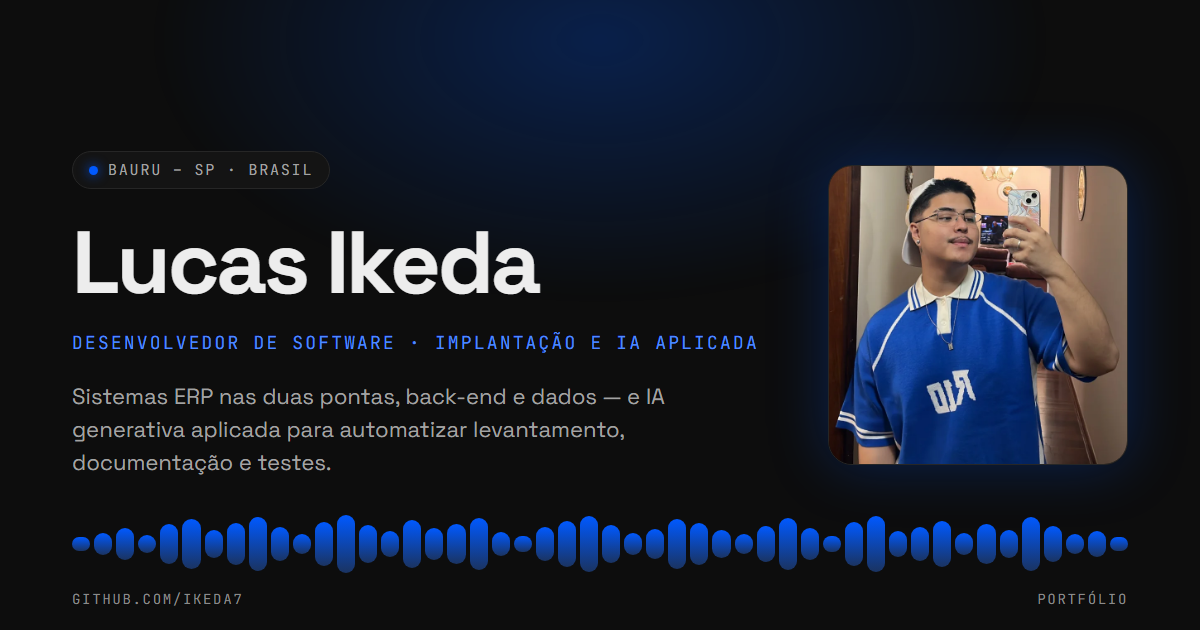
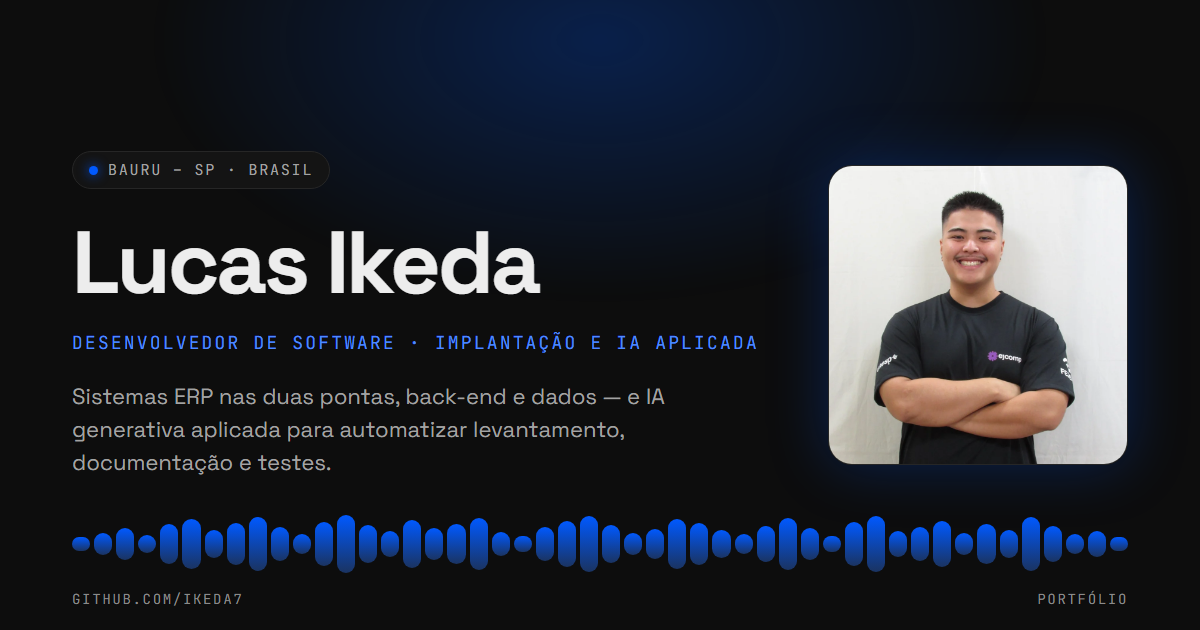
feat: novo retrato no Sobre, com vinheta para ele caber no tema
Troca o recorte da selfie de espelho por um retrato de estudio: fundo neutro,
enquadramento frontal, camiseta da EJComp.

Processado a partir do original de 3456x4608 com recorte quadrado centrado no
ponto 0,42 da vertical — o centro puro deixava pouco ar acima da cabeca e o
topo cortava os bracos cruzados. Saida em 1000x1000 (era 720) com 35 kB, menor
que os 41 kB da foto anterior: o fundo liso comprime melhor.

Sem sharp nem ImageMagick nesta maquina, o recorte e a conversao para WebP
foram feitos no proprio Chrome headless, via canvas.

A vinheta em CSS existe porque o fundo de estudio quase branco virava o objeto
mais claro da pagina inteira: roubava o olho do texto e apagava o glow de
acento em volta, ja que o brilho da foto superava o do glow. Ela escurece so a
periferia, deixa o rosto intacto, e e camada de CSS — trocar a foto de novo nao
exige reprocessar nada.

O card de compartilhamento foi regenerado com o retrato novo (`npm run og`).

Auditoria visual limpa: 276 elementos, zero falha de contraste, zero overflow,
zero espaco morto.

Changed region(s): [[0.6783, 0.2413, 0.9558, 0.754]]

diff --git a/src/components/sections/About.tsx b/src/components/sections/About.tsx
@@ -53,15 +53,33 @@ export function About() {
           />
 
           {about.photo.src ? (
-            <img
-              src={about.photo.src}
-              alt={about.photo.alt}
-              width={720}
-              height={720}
-              loading="lazy"
-              decoding="async"
-              className="border-line glow-photo relative aspect-square w-full rounded-2xl border object-cover"
-            />
+            <div className="border-line glow-photo relative aspect-square w-full overflow-hidden rounded-2xl border">
+              <img
+                src={about.photo.src}
+                alt={about.photo.alt}
+                width={1000}
+                height={1000}
+                loading="lazy"
+                decoding="async"
+                className="h-full w-full object-cover"
+              />
+
+              {/*
+                O retrato foi feito em fundo de estúdio quase branco. Sem
+                tratamento ele vira o objeto mais claro da página inteira: rouba
+                o olho do texto e apaga o glow de acento em volta, porque o
+                brilho da foto supera o do glow.
+
+                A vinheta escurece só a periferia e deixa o rosto intacto — o
+                quadrado se dissolve no carvão em vez de flutuar sobre ele. É
+                camada de CSS, não edição do arquivo: trocar a foto não exige
+                reprocessar nada.
+              */}
+              <span
+                aria-hidden="true"
+                className="absolute inset-0 bg-[radial-gradient(ellipse_at_50%_38%,transparent_30%,rgb(13_13_13/0.62)_100%)]"
+              />
+            </div>
           ) : (
             // Regra de Ouro: sem a foto real, mantemos o placeholder do design.
             <div className="border-line bg-panel glow-photo relative flex aspect-square w-full flex-col items-center justify-center gap-3 rounded-2xl border">
